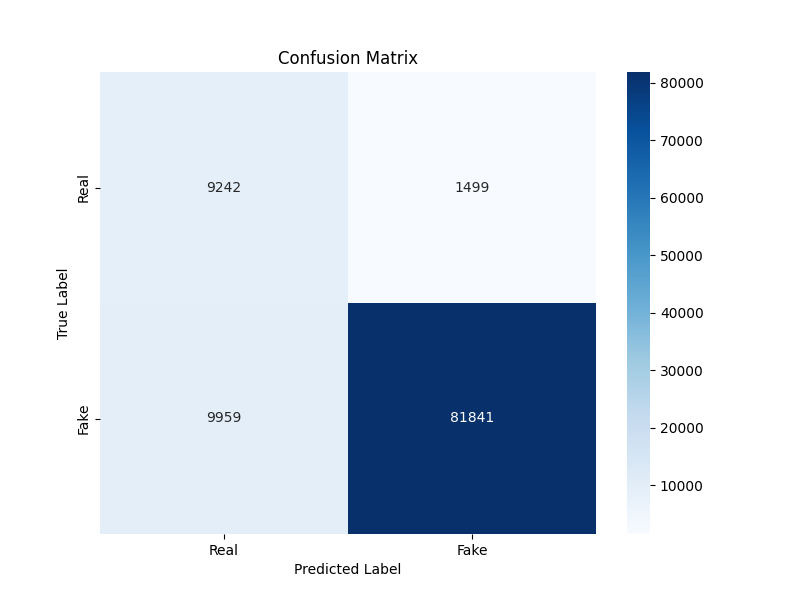
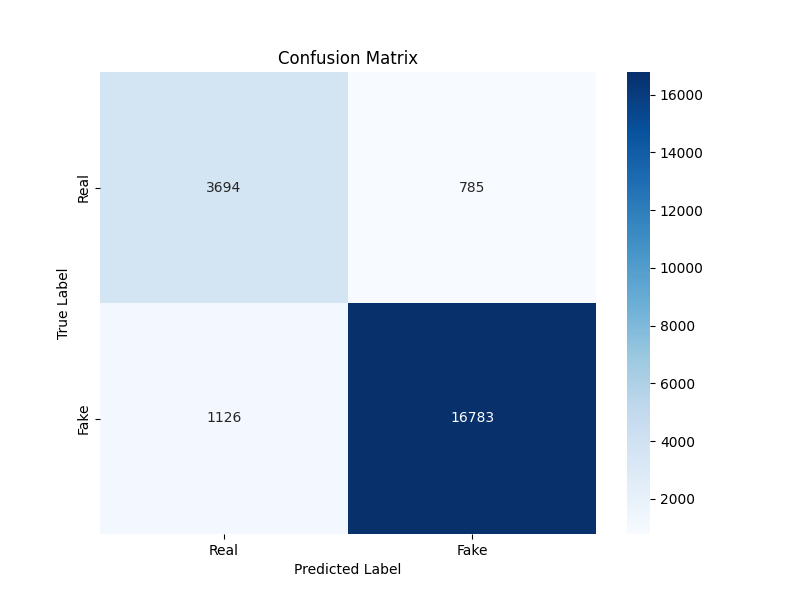
测试 ViT-B, 准确度确实下降4%,可能没有训练到位,test dataset, auc 0.96

diff --git a/training/detectors/clip_enhanced.py b/training/detectors/clip_enhanced.py
@@ -57,7 +57,10 @@ class CLIPEnhanced(AbstractDetector):
         self.config = config
         
         # Initialize feature extractor (CLIP)
-        self.clip_path = "../deepfake-detection/weights/clip-vit-large-patch14"
+        #self.clip_path = "../deepfake-detection/weights/clip-vit-large-patch14"
+        self.clip_path = config.get('clip_path', "weights/clip-vit-base-patch16")
+        print(f"clip_path: {self.clip_path}")
+
         if not os.path.exists(self.clip_path):
             raise ValueError(f"本地模型文件不存在: {self.clip_path}，请确保模型文件已下载到正确位置")
         

diff --git a/training/test.py b/training/test.py
@@ -81,7 +81,7 @@ def prepare_testing_data(config):
             )
         return test_data_loader
 
-    if config['test_batchSize']< 32
+    if config['test_batchSize']< 32:
         config['test_batchSize'] = 128 
     print(f"batch_size: {config['test_batchSize']}")
     test_data_loaders = {}
